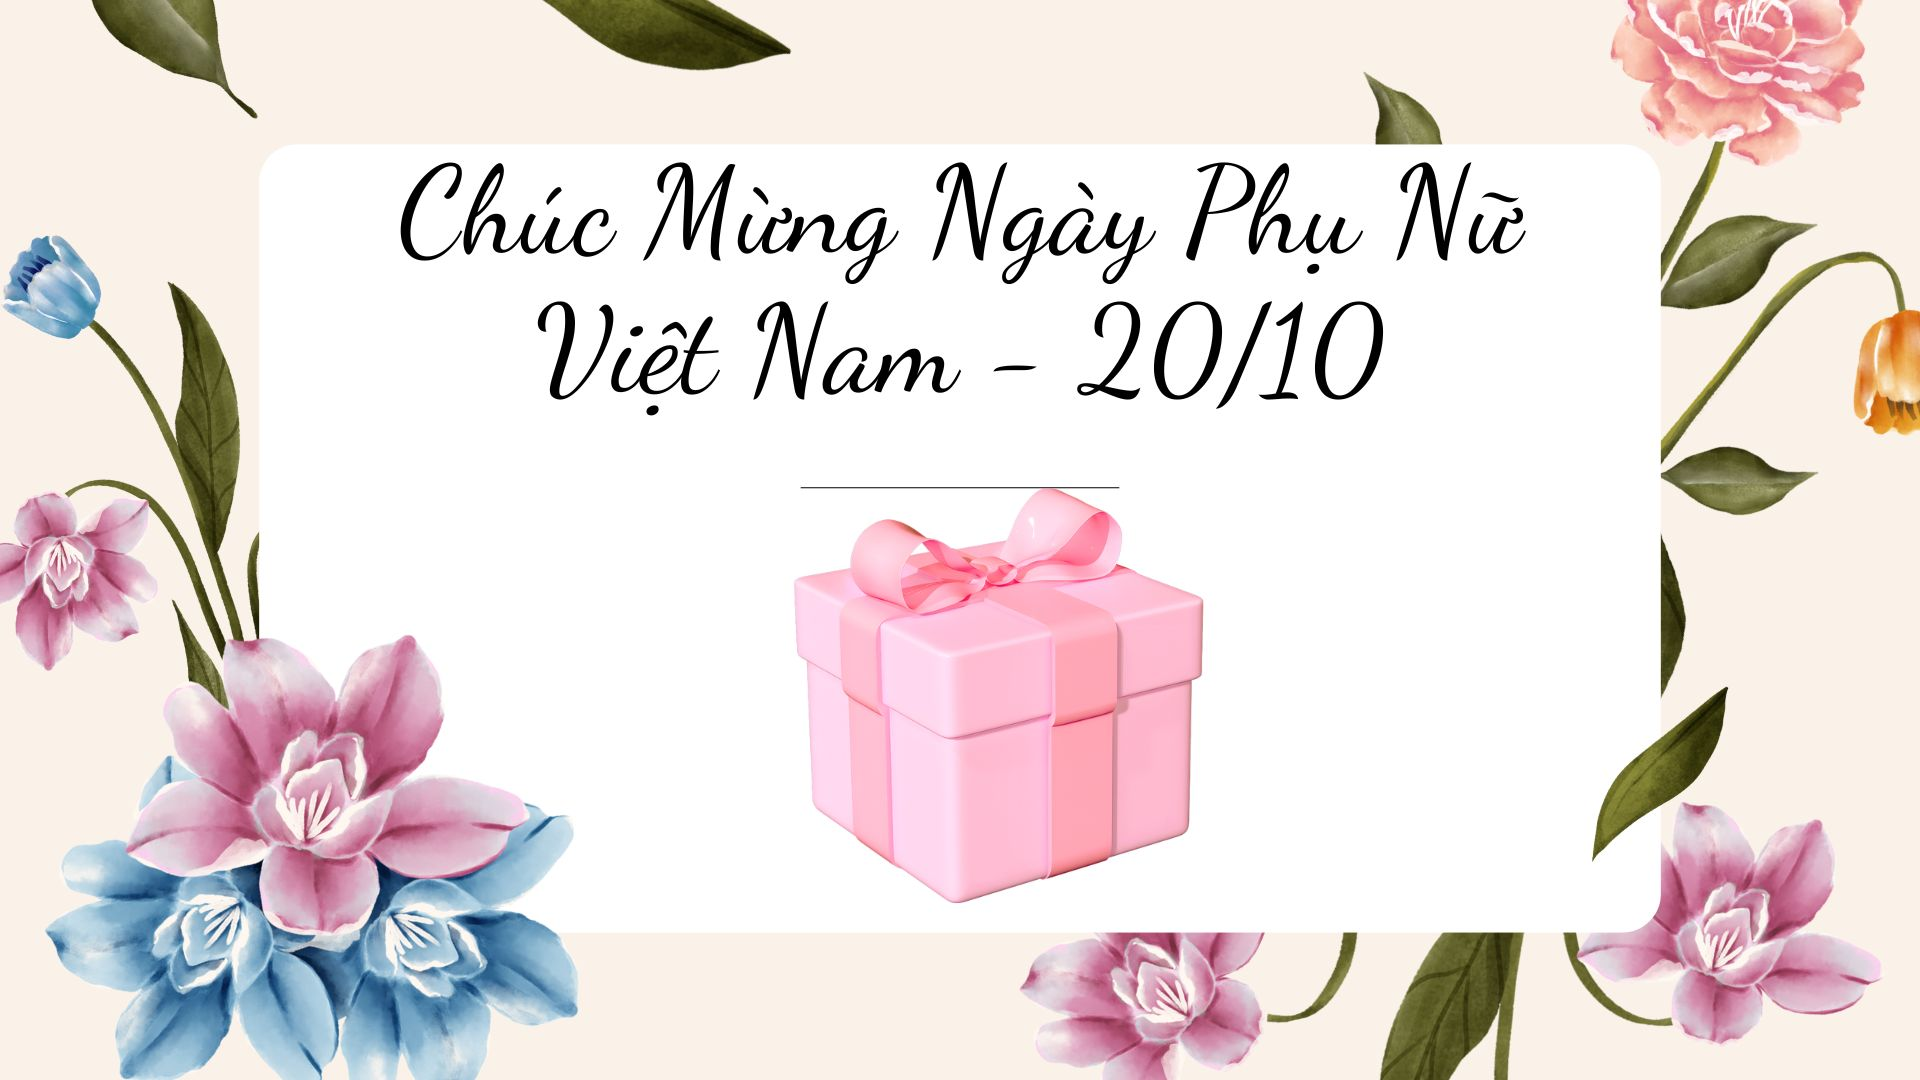
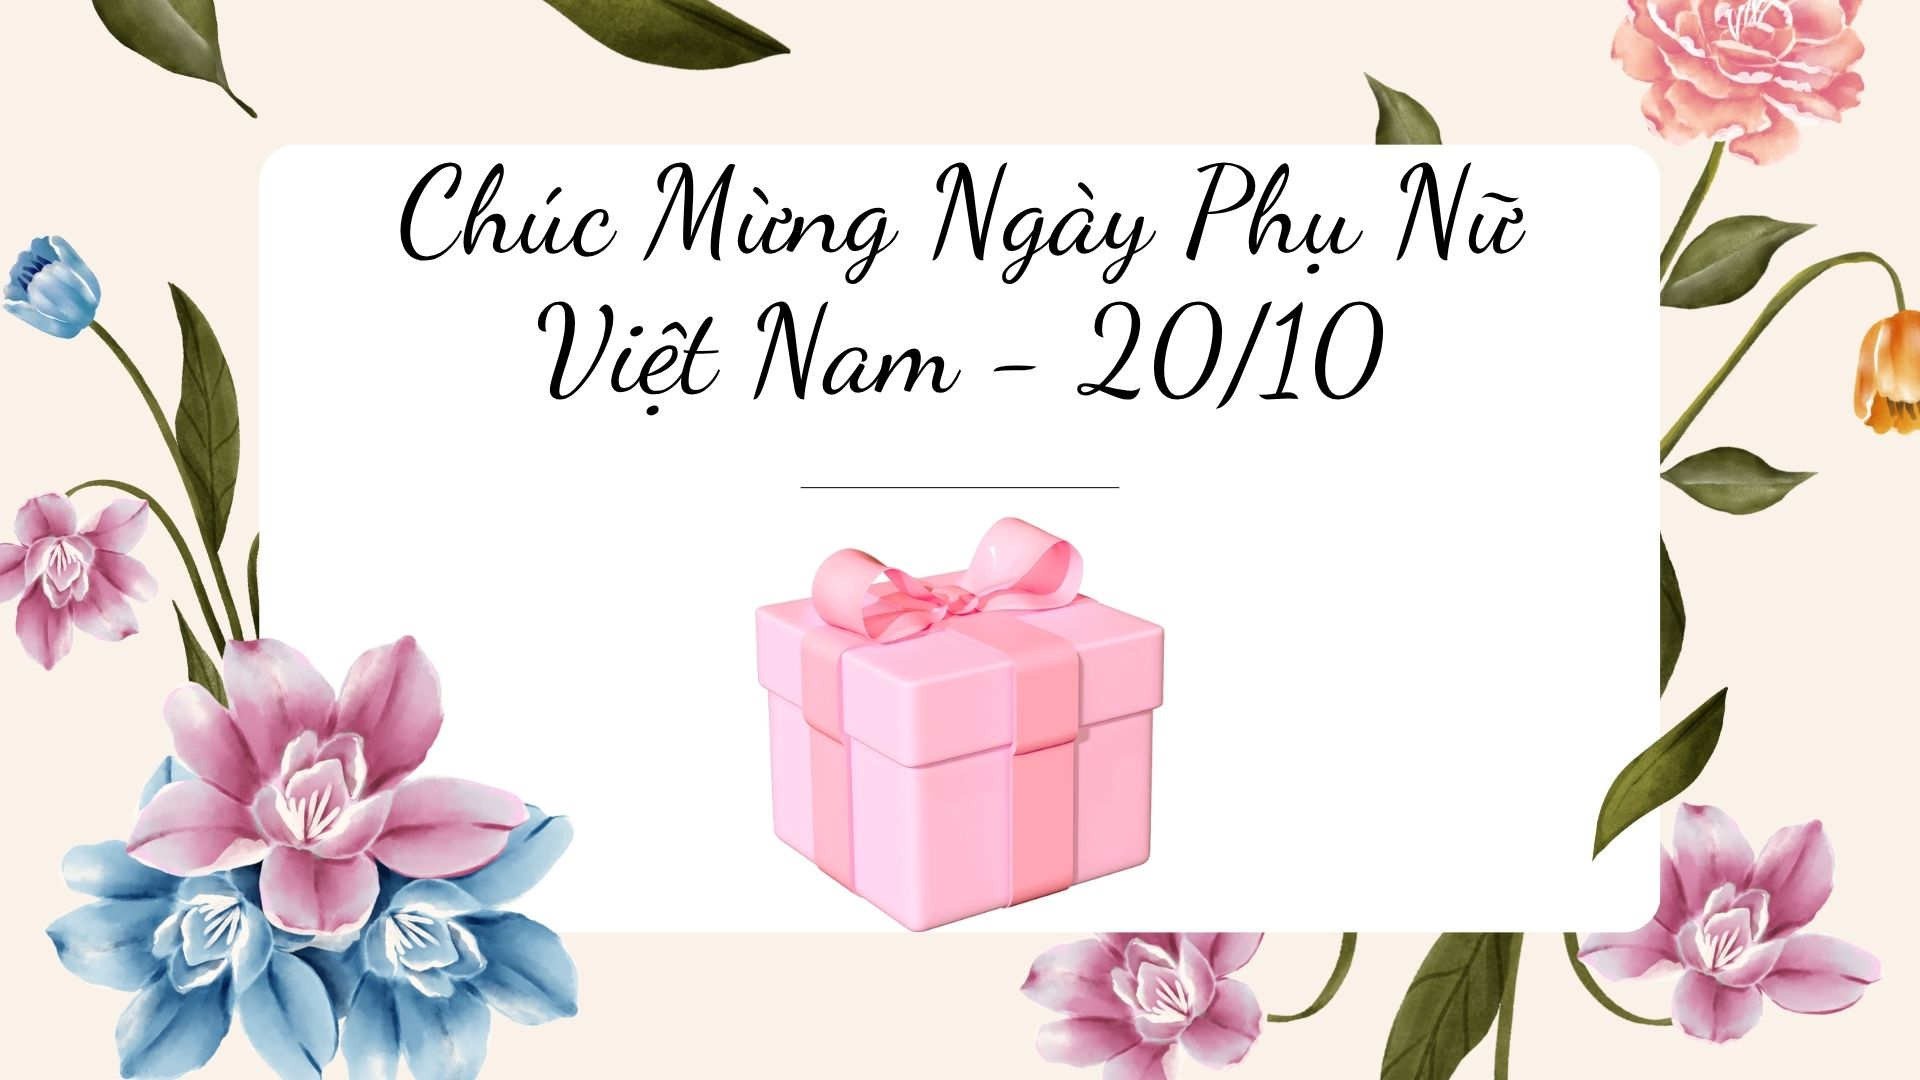
responsive

Changed region(s): [[0.375, 0.4278, 0.625, 0.8861]]

diff --git a/src/index.css b/src/index.css
@@ -54,3 +54,13 @@ body {
     transform: scale(1);
   }
 }
+
+@media only screen and (max-width: 600px) {
+  .gift {
+    max-width: 190px;
+  }
+
+  .card-img {
+    max-width: 190px;
+  }
+}
